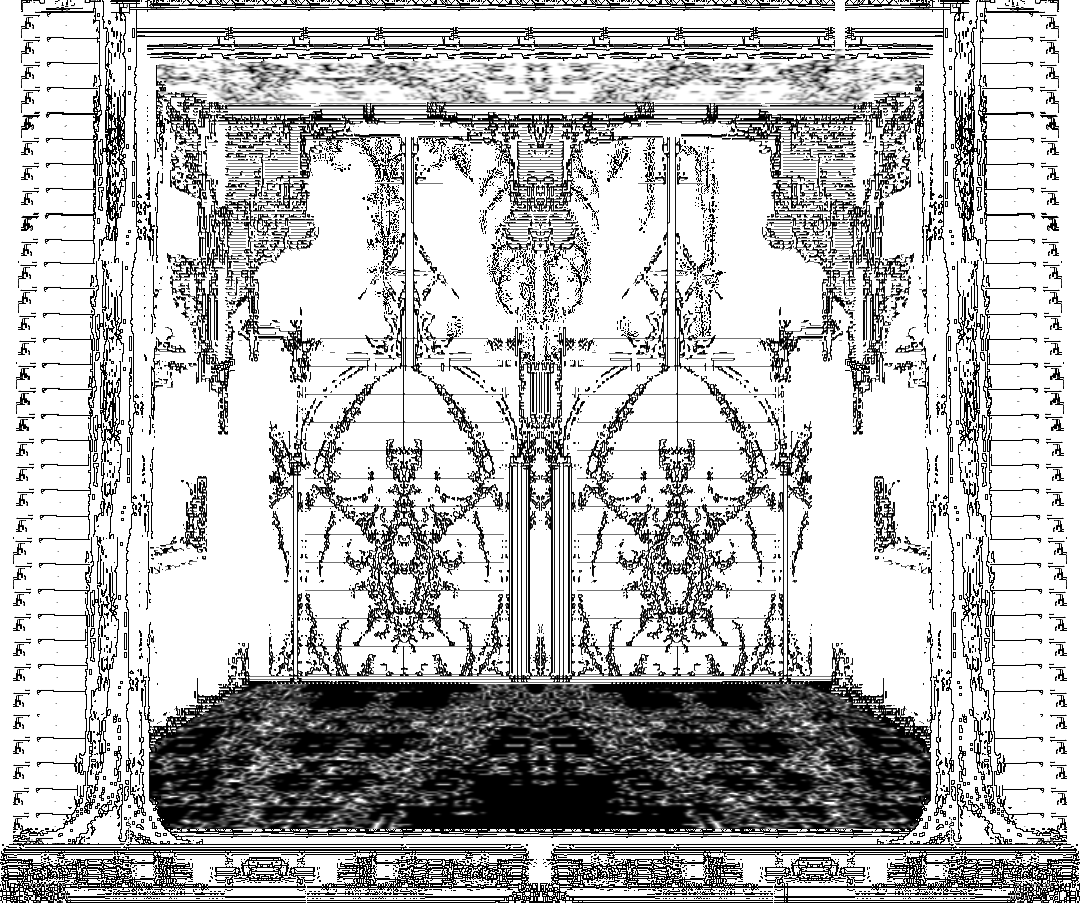
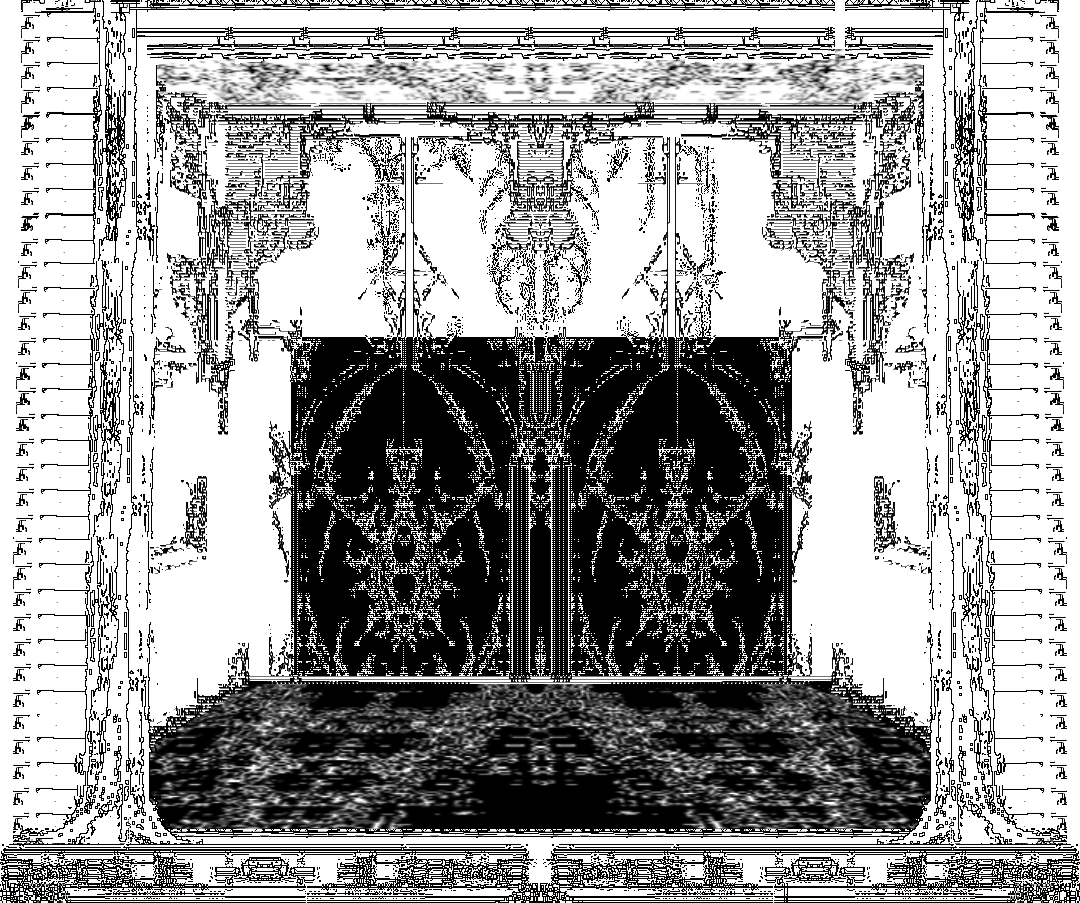
swapped rooms

Changed region(s): [[0.2444, 0.3721, 0.7333, 0.7752]]

diff --git a/index.html b/index.html
@@ -81,7 +81,8 @@
                 <input type="button" value="Submit">
             </form>
         </div>
-            <img src="hallOfWorship2.png">
+           <!-- <img src="hallOfWorship2.png">-->
+                 <img src="room4border.png">
                      <details>
                         <summary>(?)</summary>  
                     <form>
@@ -158,7 +159,7 @@
         </details>
       </div> 
      
-      <div class="dungeon"> 
+     <!-- <div class="dungeon"> 
         <img src="room4border.png">
           <details>
                 <summary>(?)</summary>  
@@ -173,7 +174,7 @@
                 <input type="button" value="Confirm">
             </form> 
           </details>
-      </div> 
+      </div> -->
        
   
         

diff --git a/style.css b/style.css
@@ -207,7 +207,7 @@ form {
 #puzzle {
 
     position: absolute;
-    bottom: 50%;
+    bottom: 30%;
     left: 400px;
     animation: hoverUpDown 2.5s steps(4) infinite;
 }
